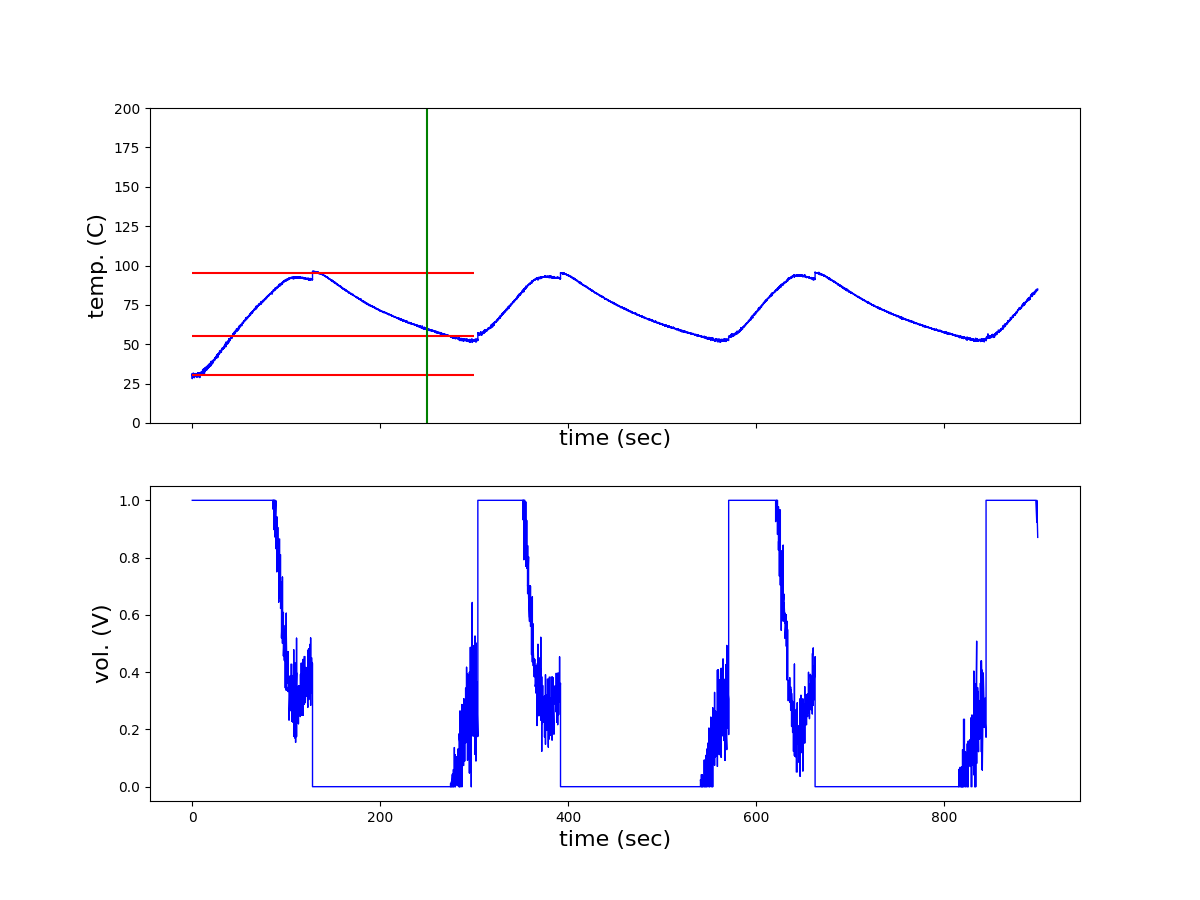
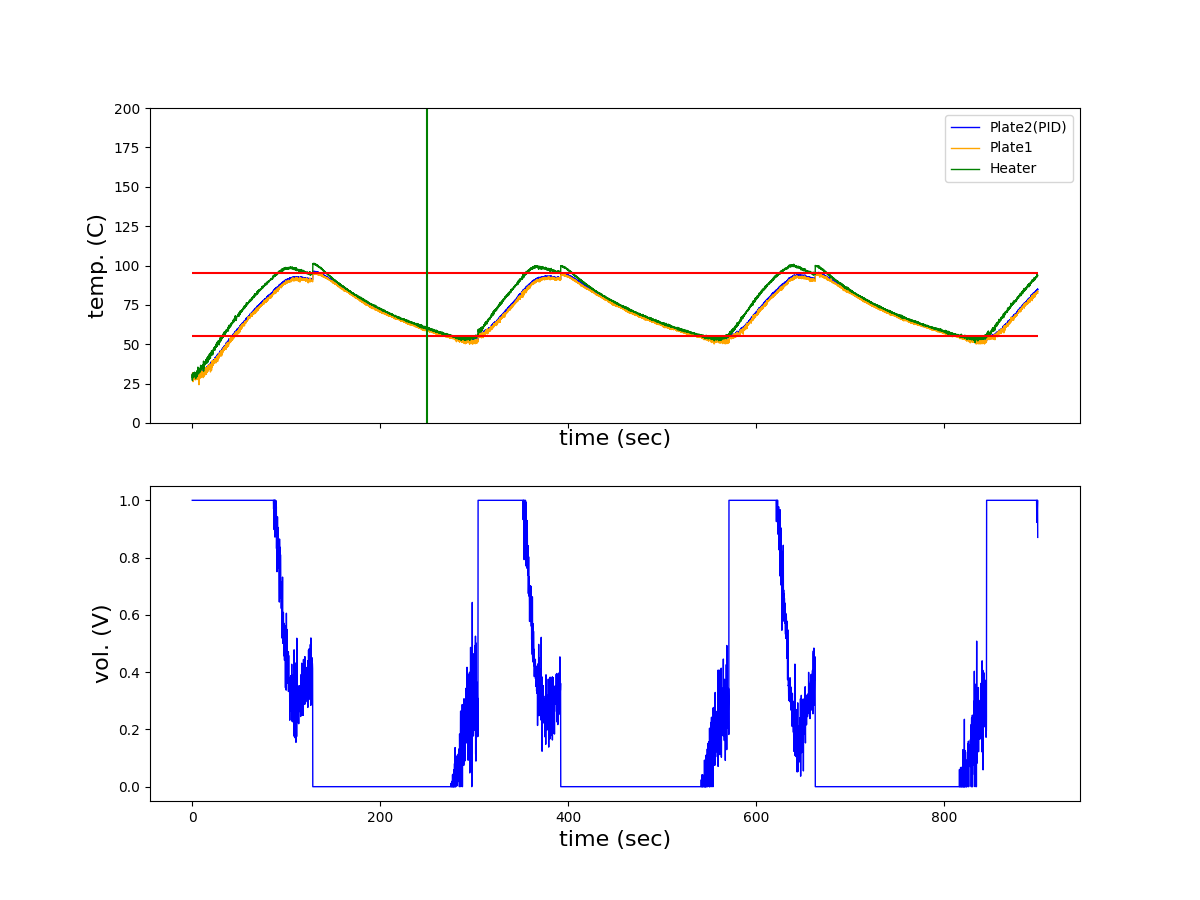
new cal for heater test

diff --git a/backup/HeaterTest/20240126_plot_data_3in1.py b/backup/HeaterTest/20240126_plot_data_3in1.py
@@ -1,0 +1,152 @@
+#!/usr/bin/python
+
+import time
+import matplotlib.pyplot as plt
+import numpy as np
+#from scipy.interpolate import spline
+from scipy.interpolate import BSpline, make_interp_spline #  Switched to BSpline
+
+
+'''
+    read file1: PID control
+	     file2: Other
+		 file3: Other
+
+    
+
+
+
+'''
+f1 = "20240126_05_95_55_changestatus-5_PID_Plate1023/t1_output.txt"
+f2 = "20240126_05_95_55_changestatus-5_PID_Plate1023/t2_output.txt"
+f3 = "20240126_05_95_55_changestatus-5_PID_Plate1023/t3_output.txt"
+
+value_f1 = "Plate1(PID)"
+value_f2 = "Heater"
+value_f3 = "Plate2"
+
+
+'''
+filelist = ["20240126_04_95_55_changestatus-5_PID_Plate2103/t1_output.txt", 
+            "20240126_04_95_55_changestatus-5_PID_Plate2103/t2_output.txt",
+            "20240126_04_95_55_changestatus-5_PID_Plate2103/t3_output.txt",
+            "20240126_05_95_55_changestatus-5_PID_Plate1023/t1_output.txt", 
+            "20240126_05_95_55_changestatus-5_PID_Plate1023/t2_output.txt",
+            "20240126_05_95_55_changestatus-5_PID_Plate1023/t3_output.txt",
+            "20240126_06_95_55_changestatus-5_PID_Heater0123/t1_output.txt", 
+            "20240126_06_95_55_changestatus-5_PID_Heater0123/t2_output.txt",
+            "20240126_06_95_55_changestatus-5_PID_Heater0123/t3_output.txt"]
+
+for f in filelist:
+'''
+
+def calValue(high, low, tc_list, time_list, pwm_list):
+    '''
+        find first point > low after T0
+        find first point > high after T0
+
+        find first point < high after Tx
+        find first point < low  after Tx
+
+    '''
+    for ii in range(len(pwm_list) - 2):
+        if pwm_list[ii] == 0 and pwm_list[ii+1] == 0 and pwm_list[ii+2] == 0:
+            t0 = ii
+            break
+
+    for ii in range(len(tc_list)):
+        if tc_list[ii] > low:
+            t1 = ii
+            break
+
+    for ii in range(len(tc_list)):
+        if tc_list[ii] > high:
+            t2 = ii
+            break
+
+    for ii in range(len(tc_list[t0:])):
+        if tc_list[t0+ii] < high:
+            t3 = t0+ii
+            break
+
+    for ii in range(len(tc_list[t3:])):
+        if tc_list[t3+ii] < low:
+            t4 = t3+ii
+            break
+
+    heatup_speed = (tc_list[t2] - tc_list[t1])/(time_list[t2] - time_list[t1])
+    cooldown_speed = (tc_list[t3] - tc_list[t4])/(time_list[t4] - time_list[t3])
+
+    print("t1 = %d, t2 = %d, t3 = %d, t4 = %d" % (t1, t2, t3, t4))
+    print("heatup: %f, cooldown: %f" % (heatup_speed, cooldown_speed))
+
+    return (heatup_speed, cooldown_speed)
+
+
+if 1:
+    #f = filelist[0]
+    highT = 95
+    lowT = 55
+
+    content1 = np.loadtxt(f1)
+    content2 = np.loadtxt(f2)
+    content3 = np.loadtxt(f3)
+    
+    #time_list = content[:, 0]
+    time_list = np.arange(0, 900.2, 0.1)
+    tc1_list = content1[:, 1]
+    pwm_list = content1[:, 2]
+    
+    tc2_list = content2[:, 1]
+    tc3_list = content3[:, 1]
+	
+	
+    #plt.plot(time_list, tc_list)
+    
+    # 建立繪圖物件 fig, 大小為 12 * 4.5, 內有 1 列 2 欄的小圖, 兩圖共用 x 軸和 y 軸
+    fig, (ax1, ax2) = plt.subplots(2, 1, sharex = True, sharey = False, figsize = (12, 9))
+
+    # 設定小圖 ax1 的坐標軸標籤, 格線顏色、種類、寬度, y軸繪圖範圍, 最後用 plot 繪圖
+    ax1.set_xlabel('time (sec)', fontsize = 16)
+    ax1.set_ylabel('temp. (C)', fontsize = 16)
+    #ax1.grid(color = 'red', linestyle = '--', linewidth = 1)
+    ax1.set_ylim(0, 200)
+    ax1.plot(time_list, tc1_list, color = 'blue', linewidth = 1)
+    ax1.plot(time_list, tc2_list, color = 'orange', linewidth = 1)
+    ax1.plot(time_list, tc3_list, color = 'green', linewidth = 1)
+	
+    ax1.legend([value_f1, value_f2, value_f3])
+
+
+
+
+    ax1.hlines(highT,0,time_list[-1],color="red")
+    ax1.hlines(lowT,0,time_list[-1],color="red")
+    #ax1.hlines(tc_list[0],0,time_list[-1],color="red")
+    ax1.vlines(250,0,200,color="green")
+	
+
+    # 設定小圖 ax2 的坐標軸標籤, 格線顏色、種類、寬度, 最後用 plot 繪圖
+    ax2.set_xlabel('time (sec)', fontsize = 16)
+    ax2.set_ylabel('vol. (V)', fontsize = 16)
+    #ax2.grid(color = 'red', linestyle = '--', linewidth = 1)
+    ax2.plot(time_list, pwm_list, color = 'blue', linewidth = 1)
+
+    # 用 savefig 儲存圖片, 用 show 顯示圖片
+    fig.savefig(f1[:-3]+'png')
+    fig.show()
+    
+    print(value_f1)
+    calValue(highT - 10, lowT + 5, tc1_list, time_list, pwm_list)
+    print(value_f2)
+    calValue(highT - 10, lowT + 5, tc2_list, time_list, pwm_list)
+    print(value_f3)
+    calValue(highT - 10, lowT + 5, tc3_list, time_list, pwm_list)
+
+
+
+
+
+
+
+
